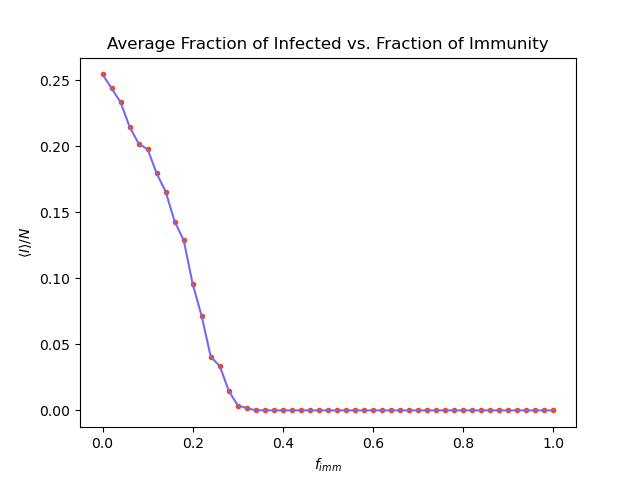
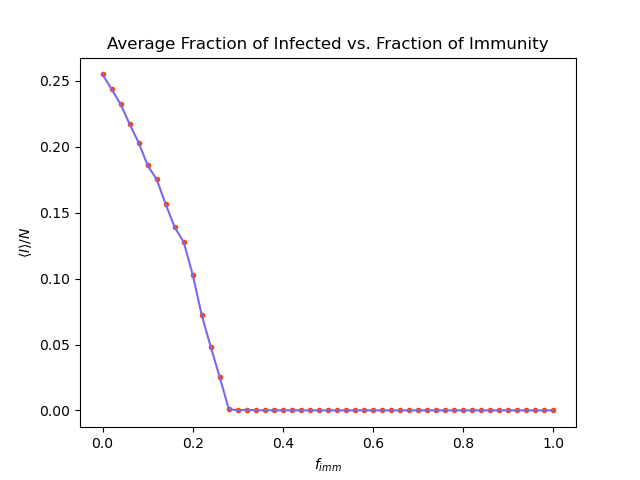
last minute edits

diff --git a/checkpoint 2/sirs.py b/checkpoint 2/sirs.py
@@ -29,33 +29,50 @@ class SIRS:
         self.pR_S = pR_S
         self.immune = immune
         self.filename = filename
-        # Let -1 <- R; 0 <- I; 1 <- S; -2 <- immune
-        self.board = np.random.choice([-2, -1, 0, 1], size=(L, L), \
-                                      p=[immune, (1-immune)/3, (1-immune)/3, (1-immune)/3])
+        # Populate SIRS board
+        self.populate(immune)
         # Choose which task to run
         if task == 'animation':
+            # Run with animation
             self.run = self.animation
         elif task == '3':
+            # Collect task 3 data
             while not(self.filename):
                 self.filename = input("Enter filepath to save data: ")
             self.run = self.task3
         elif task == '4':
+            # Collect task 4 data
             while not(self.filename):
                 self.filename = input("Enter filepath to save data: ")
             self.run = self.task4
         elif task == '5':
+            # Collect task 5 data
             while not(self.filename):
                 self.filename = input("Enter filepath to save data: ")
             self.run = self.task5
+
+    def populate(self, immune):
+        """
+        Populate board with susceptible, recovered, infected, and immune
+        (if applicable) cells. Let -1 <- R; 0 <- I; 1 <- S; -2 <- immune.
+
+        Arguments: 
+            immune: fraction of permanently immune sites
+        """
+        # Create 1D array of length L**2 with random cells within set (-1, 0, 1)
+        arr = np.random.choice([-1, 0, 1], self.L**2)
+        # Insert immune sites from fraction, rounded down
+        num_immune = int(immune * self.L**2)
+        arr[:num_immune] = -2
+        # Shuffle array
+        random.shuffle(arr)
+        # Reshape 1D array into 2D SIRS board
+        self.board = arr.reshape(self.L, self.L)
 
     def animation(self):
         """
         Run and animate the SIRS model simulation.
         """
-        # Equilibrate board before displaying animation
-        print("Wait: equilibrating")
-        for i in range(100 * self.sweep):
-            self.update()
         # Create custom cmap
         colours = ['black', 'blue', 'red', 'white']
         self.cmap = mc.ListedColormap(colours)
@@ -136,11 +153,13 @@ class SIRS:
             for pS_I in p_list:
                 # Update pS_I
                 self.pS_I = pS_I
+
                 for pR_S in p_list:
                     print(f"Progress: pS_I = {pS_I}, pR_S = {pR_S}")
                     # Initialise variables for new SIRS run
+                    # Update pR_S
                     self.pR_S = pR_S
-                    # No need to include immune cells
+                    # More efficient board population for 0 immunity case
                     self.board = np.random.choice([-1, 0, 1], size=(self.L, self.L))
                     I = np.zeros(1000)
                     # Equilibrate
@@ -175,7 +194,7 @@ class SIRS:
                 print(f"Progress: pS_I = {pS_I}\n", end="\r")
                 # Update pS_I and clean game board
                 self.pS_I = pS_I
-                # No need to include immune cells
+                # More efficient board population for 0 immunity case
                 self.board = np.random.choice([-1, 0, 1], size=(self.L, self.L))
                 I = np.zeros(10000)
                 # Equilibrate
@@ -214,8 +233,7 @@ class SIRS:
             for f_imm in f_list:
                 print(f"Progress: f = {f_imm}\n", end="\r")
                 # Update immune fraction and clean game board
-                self.board = np.random.choice([-2, -1, 0, 1], size=(self.L, self.L), \
-                                      p=[f_imm, (1-f_imm)/3, (1-f_imm)/3, (1-f_imm)/3])
+                self.populate(f_imm)
                 I = np.zeros(1000)
                 # Equilibrate
                 for i in range(100):
@@ -291,7 +309,7 @@ if __name__ == "__main__":
     elif args.state == 'dynamic':
         p1, p2, p3 = 0.5, 0.5, 0.5
     elif args.state == 'cyclic':
-        p1, p2, p3 = 0.38, 0.049, 0.0056
+        p1, p2, p3 = 0.4, 0.05, 0.0056
     else:
         p1, p2, p3 = args.probabilitySI, args.probabilityIR, args.probabilityRS
 

diff --git a/checkpoint 2/gol_analysis.py b/checkpoint 2/gol_analysis.py
@@ -25,7 +25,7 @@ def task3_OLD(filename):
     """
     Analyse the speed of the glider. Plot glider distance from origin against timestep.
     Use curve fit to find gradient for multiple segments of motion, then plot each fit over the data. 
-    Display the mean speed, and the standard error on the mean.
+    Display the mean speed, and the standard error on the mean. Not used for checkpoint.
     
     Arguments:
         filename: Name of file containing glider position data
